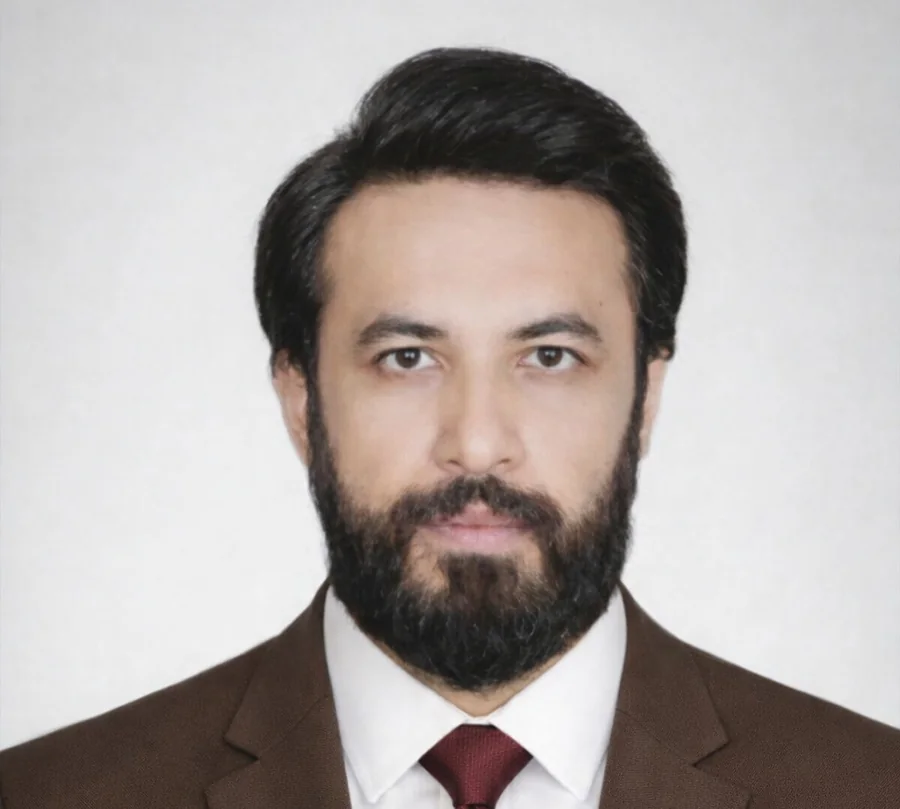
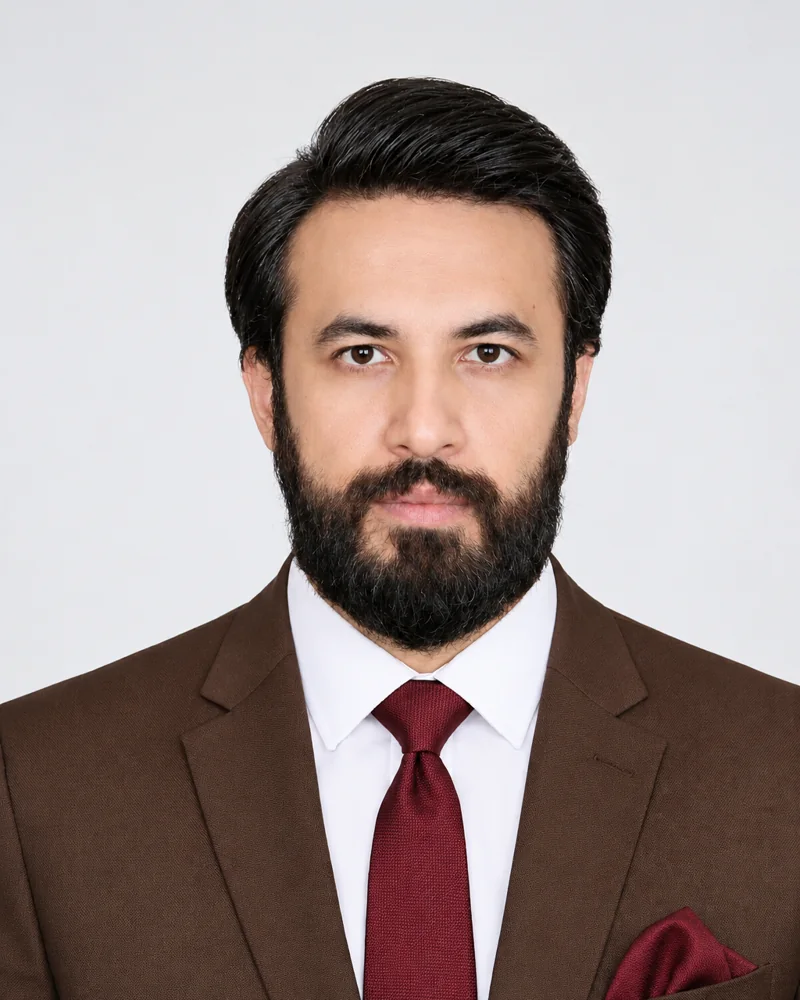
New Devang photo; portrait framing for leadership photos
Claude-Session: https://claude.ai/code/session_017oGPB4thtfnhSmdm7UecKW

diff --git a/index.html b/index.html
@@ -922,7 +922,8 @@ footer .ft-h{font-family:var(--f-display);color:var(--navy-800);font-size:14px;f
 @media (max-width:640px){.tl.tl4{grid-template-columns:1fr;gap:12px}.tl.tl4 .tl-step{display:grid;grid-template-columns:52px 1fr;column-gap:16px;row-gap:4px;padding:22px 20px}.tl.tl4 .tl-num{grid-row:span 2;margin:0;align-self:start}.tl.tl4 .tl-step h3{align-self:start;margin-top:12px}}
 
 .ld-photo.has-img::before{display:none}
-.ld-img[data-photo="devang"]{object-position:center 0%!important}
+.ld-photo{aspect-ratio:4/5!important}
+.ld-photo img{object-position:center top!important}
 /* ===== purpose: vision, mission, values ===== */
 .purpose{background:var(--white)}
 .pv-grid{display:grid;grid-template-columns:1fr 1fr;gap:20px}
@@ -1211,7 +1212,7 @@ footer .ft-h{font-family:var(--f-display);color:var(--navy-800);font-size:14px;f
           <a class="ld-wa" href="https://wa.me/919978507616?text=Hi%20Prathmesh%2C%20I%20came%20across%20your%20profile%20on%20the%20Centurion%20website%20and%20would%20like%20to%20connect." target="_blank" rel="noopener" aria-label="WhatsApp Prathmesh"><svg viewBox="0 0 24 24" aria-hidden="true"><path d="M17.5 14.4c-.3-.1-1.8-.9-2-1-.3-.1-.5-.1-.7.1-.2.3-.8 1-.9 1.2-.2.2-.3.2-.6.1-.3-.1-1.3-.5-2.4-1.5-.9-.8-1.5-1.8-1.7-2.1-.2-.3 0-.5.1-.6l.4-.5c.2-.2.2-.3.3-.5.1-.2.1-.4 0-.5l-.9-2.2c-.2-.6-.5-.5-.7-.5h-.6c-.2 0-.5.1-.8.4-.3.3-1 1-1 2.5s1.1 2.9 1.2 3.1c.1.2 2.1 3.2 5.1 4.5.7.3 1.3.5 1.7.6.7.2 1.4.2 1.9.1.6-.1 1.8-.7 2-1.4.2-.7.2-1.3.2-1.4-.1-.1-.3-.2-.6-.3zM12 21.8c-1.8 0-3.5-.5-5-1.4l-.4-.2-3.7 1 1-3.6-.2-.4A9.8 9.8 0 1 1 12 21.8zM20.5 3.5A11.8 11.8 0 0 0 1.9 17.7L.2 24l6.4-1.7A11.8 11.8 0 0 0 24 12c0-3.2-1.2-6.1-3.5-8.5z"/></svg><span>Connect with Prathmesh</span><svg class="ld-arr" viewBox="0 0 24 24" fill="none" stroke="currentColor" stroke-width="2" stroke-linecap="round" stroke-linejoin="round" aria-hidden="true"><path d="M5 12h14M13 6l6 6-6 6"/></svg></a>
         </article>
         <article class="ld-card rv">
-          <div class="ld-photo has-img"><img class="ld-img" data-photo="devang" src="/assets/team/devang.webp" width="900" height="809" alt="Devang Upadhyay, Centurion Strategic Ventures" loading="lazy"></div>
+          <div class="ld-photo has-img"><img class="ld-img" data-photo="devang" src="/assets/team/devang.webp" width="800" height="1000" alt="Devang Upadhyay, Centurion Strategic Ventures" loading="lazy"></div>
           <div class="ld-body">
             <h3>Devang Upadhyay</h3>
             <p class="ld-role">Director, Sales &amp; Distribution</p>
@@ -1221,7 +1222,7 @@ footer .ft-h{font-family:var(--f-display);color:var(--navy-800);font-size:14px;f
           <a class="ld-wa" href="https://wa.me/919909975844?text=Hi%20Devang%2C%20I%20came%20across%20your%20profile%20on%20the%20Centurion%20website%20and%20would%20like%20to%20connect." target="_blank" rel="noopener" aria-label="WhatsApp Devang"><svg viewBox="0 0 24 24" aria-hidden="true"><path d="M17.5 14.4c-.3-.1-1.8-.9-2-1-.3-.1-.5-.1-.7.1-.2.3-.8 1-.9 1.2-.2.2-.3.2-.6.1-.3-.1-1.3-.5-2.4-1.5-.9-.8-1.5-1.8-1.7-2.1-.2-.3 0-.5.1-.6l.4-.5c.2-.2.2-.3.3-.5.1-.2.1-.4 0-.5l-.9-2.2c-.2-.6-.5-.5-.7-.5h-.6c-.2 0-.5.1-.8.4-.3.3-1 1-1 2.5s1.1 2.9 1.2 3.1c.1.2 2.1 3.2 5.1 4.5.7.3 1.3.5 1.7.6.7.2 1.4.2 1.9.1.6-.1 1.8-.7 2-1.4.2-.7.2-1.3.2-1.4-.1-.1-.3-.2-.6-.3zM12 21.8c-1.8 0-3.5-.5-5-1.4l-.4-.2-3.7 1 1-3.6-.2-.4A9.8 9.8 0 1 1 12 21.8zM20.5 3.5A11.8 11.8 0 0 0 1.9 17.7L.2 24l6.4-1.7A11.8 11.8 0 0 0 24 12c0-3.2-1.2-6.1-3.5-8.5z"/></svg><span>Connect with Devang</span><svg class="ld-arr" viewBox="0 0 24 24" fill="none" stroke="currentColor" stroke-width="2" stroke-linecap="round" stroke-linejoin="round" aria-hidden="true"><path d="M5 12h14M13 6l6 6-6 6"/></svg></a>
         </article>
         <article class="ld-card rv">
-          <div class="ld-photo has-img"><img class="ld-img" data-photo="juhi" src="/assets/team/juhi.webp" width="900" height="810" alt="Juhi Bais, Centurion Strategic Ventures" loading="lazy"></div>
+          <div class="ld-photo has-img"><img class="ld-img" data-photo="juhi" src="/assets/team/juhi.webp" width="800" height="953" alt="Juhi Bais, Centurion Strategic Ventures" loading="lazy"></div>
           <div class="ld-body">
             <h3>Juhi Bais</h3>
             <p class="ld-role">Director, Brand Communications &amp; People Strategy</p>
